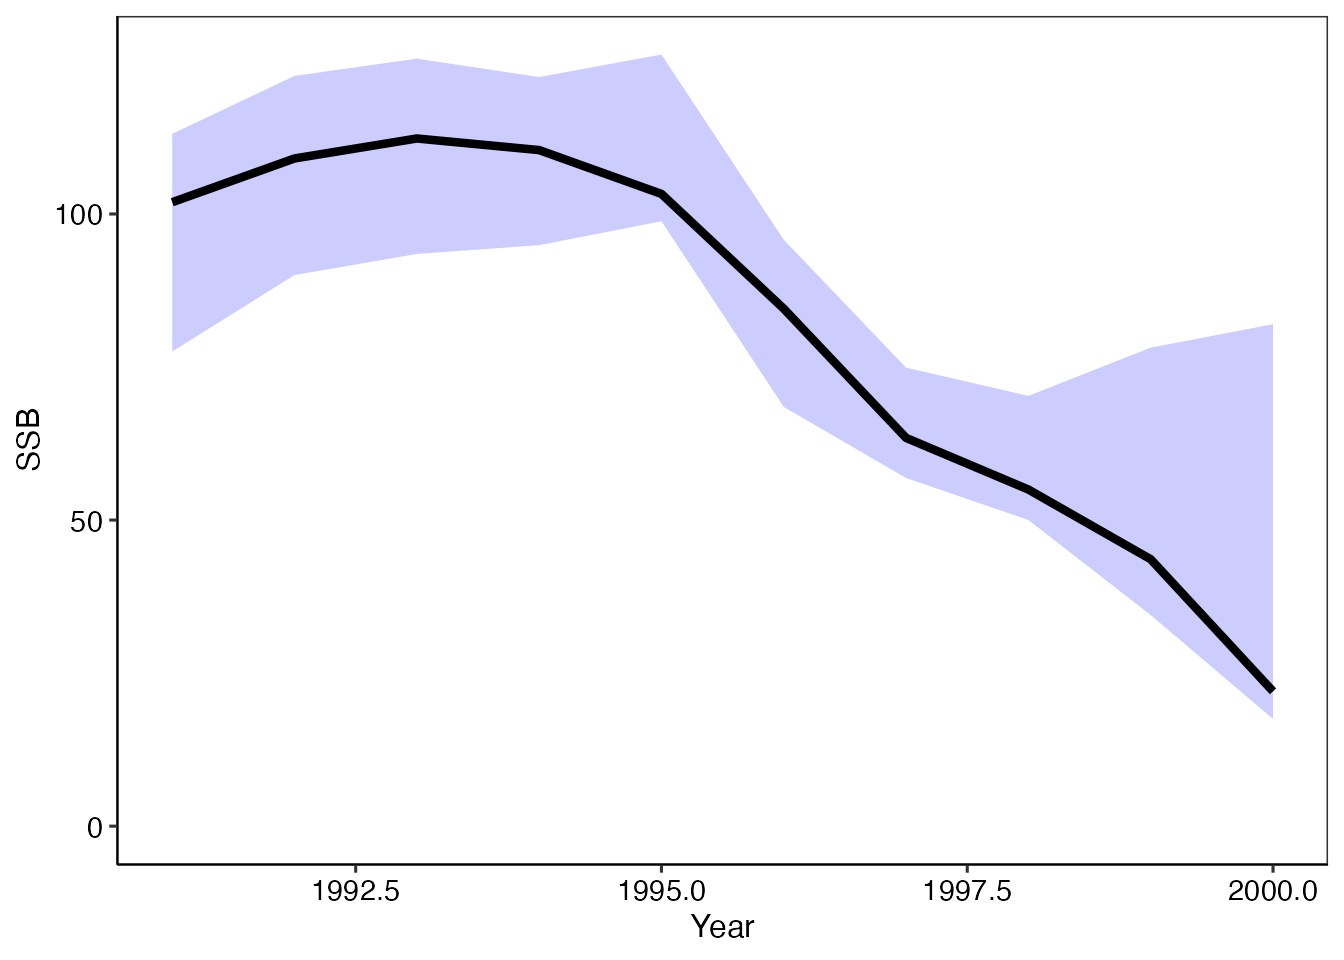
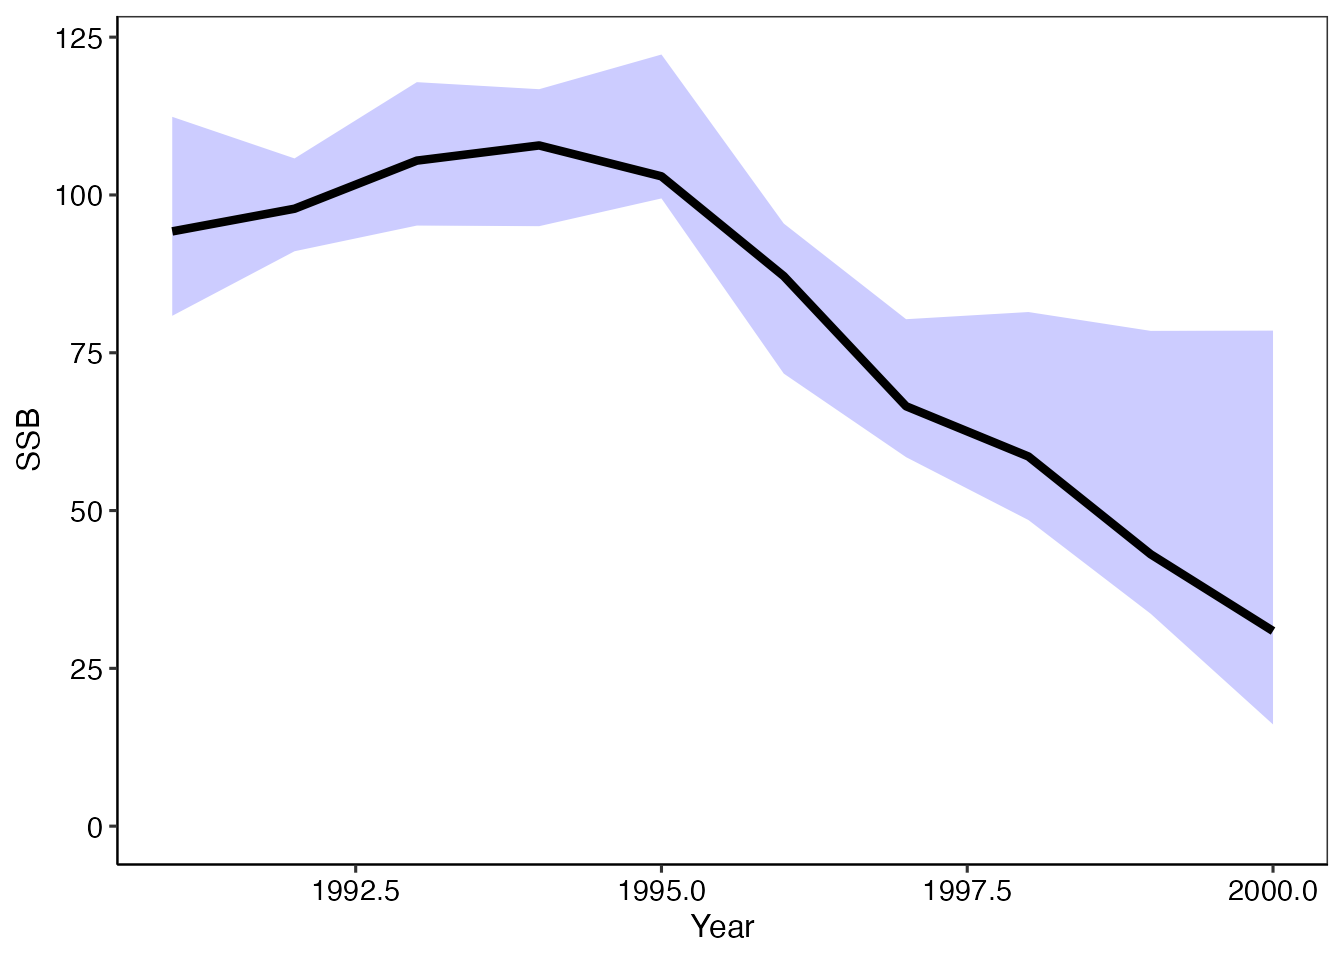
Built site for frasyr: 2.2.0.0@40ea721

diff --git a/articles/Diagnostics-for-VPA.html b/articles/Diagnostics-for-VPA.html
@@ -77,7 +77,7 @@
       <h1 data-toc-skip>VPAモデル診断スクリプト</h1>
                         <h4 data-toc-skip class="author">Kohei Hamabe &amp; Momoko Ichinokawa</h4>
             
-            <h4 data-toc-skip class="date">2021-06-09</h4>
+            <h4 data-toc-skip class="date">2021-06-10</h4>
       
       
       <div class="hidden name"><code>Diagnostics-for-VPA.Rmd</code></div>
@@ -435,7 +435,7 @@
 <p>を指定します。コマンドは以下の通りです。</p>
 <div class="sourceCode" id="cb25"><pre class="downlit sourceCode r">
 <code class="sourceCode R"><span class="va">res_vpa_jitter</span> <span class="op">&lt;-</span> <span class="fu"><a href="../reference/do_estcheck_vpa.html">do_estcheck_vpa</a></span><span class="op">(</span><span class="va">res_vpa_estb</span>, n_ite<span class="op">=</span><span class="fl">10</span><span class="op">)</span></code></pre></div>
-<pre><code>Maximum likelihood in jitter analysis is:  23.60018 
+<pre><code>Maximum likelihood in jitter analysis is:  23.36542 
 Likelihood with estimated parameters is:  23.60018 </code></pre>
 <p>最初に引数で与えたVPA結果について、</p>
 <ul>
@@ -569,8 +569,8 @@ Likelihood with estimated parameters is:  23.60018 </code></pre>
 <code class="sourceCode R"><span class="va">res_tmp</span> <span class="op">&lt;-</span> <span class="fu"><a href="https://rdrr.io/r/base/numeric.html" class="external-link">numeric</a></span><span class="op">(</span><span class="op">)</span>
 <span class="kw">for</span><span class="op">(</span><span class="va">i</span> <span class="kw">in</span> <span class="fl">1</span><span class="op">:</span><span class="fl">10</span><span class="op">)</span> <span class="va">res_tmp</span><span class="op">[</span><span class="va">i</span><span class="op">]</span> <span class="op">&lt;-</span> <span class="fu"><a href="https://rdrr.io/r/base/numeric.html" class="external-link">as.numeric</a></span><span class="op">(</span><span class="va">res_vpa_bootstrap</span><span class="op">$</span><span class="va">res_boot</span><span class="op">[[</span><span class="va">i</span><span class="op">]</span><span class="op">]</span><span class="op">$</span><span class="va">Fc.at.age</span><span class="op">[</span><span class="fl">4</span><span class="op">]</span><span class="op">)</span>
 <span class="fu"><a href="https://rdrr.io/r/stats/quantile.html" class="external-link">quantile</a></span><span class="op">(</span><span class="va">res_tmp</span>, probs <span class="op">=</span> <span class="fu"><a href="https://rdrr.io/r/base/c.html" class="external-link">c</a></span><span class="op">(</span><span class="fl">0.025</span>,<span class="fl">0.5</span>,<span class="fl">0.975</span><span class="op">)</span><span class="op">)</span></code></pre></div>
-<pre><code>     2.5%       50%     97.5% 
-0.4533659 0.6162257 6.5579386 </code></pre>
+<pre><code>      2.5%        50%      97.5% 
+ 0.4771016  0.9434948 18.2593211 </code></pre>
 <p>この他、各パラメータの相関関係について、ブートストラップ標本を基にプロットが得られます。</p>
 <div class="sourceCode" id="cb41"><pre class="downlit sourceCode r">
 <code class="sourceCode R"><span class="va">res_vpa_bootstrap</span><span class="op">$</span><span class="va">plot_cor</span></code></pre></div>

diff --git a/articles/fittingSR.html b/articles/fittingSR.html
@@ -77,7 +77,7 @@
       <h1 data-toc-skip>fitSR関数を使った再生産関係の推定</h1>
                         <h4 data-toc-skip class="author">Shota Nisijima &amp; Shin Fukui</h4>
             
-            <h4 data-toc-skip class="date">2021-06-09</h4>
+            <h4 data-toc-skip class="date">2021-06-10</h4>
       
       
       <div class="hidden name"><code>fittingSR.Rmd</code></div>

diff --git a/articles/vpa.html b/articles/vpa.html
@@ -77,7 +77,7 @@
       <h1 data-toc-skip>VPA関数を使った資源量推定</h1>
                         <h4 data-toc-skip class="author">市野川桃子</h4>
             
-            <h4 data-toc-skip class="date">2021-06-09</h4>
+            <h4 data-toc-skip class="date">2021-06-10</h4>
       
       
       <div class="hidden name"><code>vpa.Rmd</code></div>
